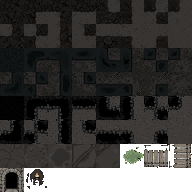
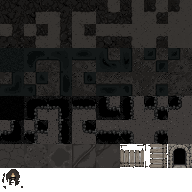
Fix(I3): drop default's mismatched hazard stamp; dim explored ASCII fallback
Data: the 'default' fallback pack shipped starter's own hazard stamp
(a green toxic-slime decal), so a volcanic/lava room without its own
terrain set (falling back to 'default') showed pale moss instead of
the lava-pulse ASCII marker. Dropping 'hazard' from
art/tiles/default.json (repacked) routes it through the existing
missingStamp -> ASCII fallback path instead, which already has the
correct red-outlined lava-pulse styling.

CSS: explored cells' ASCII fallback characters (hazard/exit/torch/
bridge with no stamp art, or a tile with no terrain art at all)
weren't dimmed by the fog-of-war overlay -- .tile-explored forces
opacity:1 (so the terrain art itself doesn't fade) but left the
character at full brightness. filter:brightness(0.4) dims the
character without affecting the black overlay (its RGB is already 0,
so brightness scaling is a no-op on it) or the art showing through.

Changed region(s): [[0.625, 0.75, 1.0, 0.875], [0.0, 0.875, 0.25, 1.0]]

diff --git a/client/src/styles/index.css b/client/src/styles/index.css
@@ -2700,7 +2700,13 @@ button:disabled { opacity: 0.35; cursor: not-allowed; text-shadow: none; }
    become translucent overlays here. Tuned from screenshots to stay readable on both rock and
    floor (see Task 5 report). */
 .glyph-grid.terrain .room-row .tile-unseen { background: #000; }
-.glyph-grid.terrain .room-row .tile-explored { background: rgba(0, 0, 0, 0.62); opacity: 1; }
+/* opacity:1 overrides the base .tile-explored dimming (which would also fade the terrain art
+   drawn behind this transparent-background span); filter:brightness dims the ASCII fallback
+   CHARACTER instead (hazard/exit/torch/bridge with missingStamp, or a cell with no terrain art at
+   all) so explored fog still reads uniformly. Safe to combine with the overlay: its RGB is (0,0,0)
+   already, so brightness scaling is a no-op on it (0 * anything = 0) -- only the character's own
+   colour dims, not the overlay or the art showing through its alpha. */
+.glyph-grid.terrain .room-row .tile-explored { background: rgba(0, 0, 0, 0.62); opacity: 1; filter: brightness(0.4); }
 
 .glyph-grid.terrain .arena-move-highlight { background: rgba(60, 200, 90, 0.22) !important; }
 .glyph-grid.terrain .arena-path-trace { background: rgba(90, 230, 120, 0.38) !important; }
